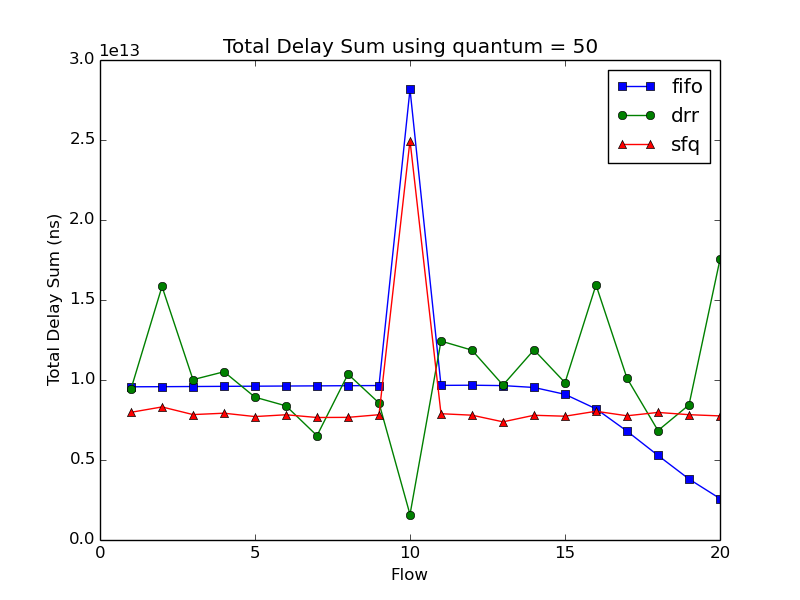
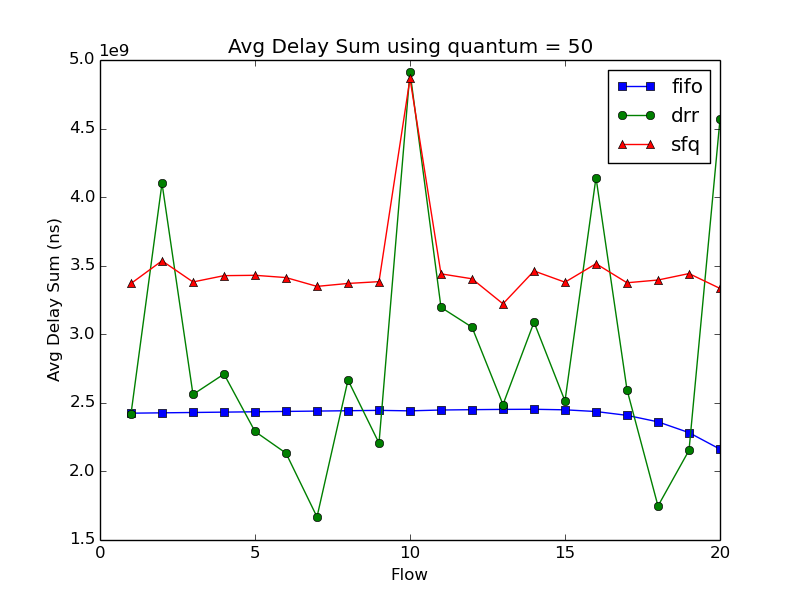
update delay to avg

diff --git a/scratch/plot_figures.py b/scratch/plot_figures.py
@@ -109,10 +109,11 @@ for file_name in files:
             if 'delaySum' in flow.attrib:
                 count += 1
                 delay_string = flow.attrib['delaySum']
+                num_packets = flow.attrib['rxPackets']
                 ns = delay_string.find("ns")
                 delay_string = delay_string[0: ns]
                 delay = float(delay_string)
-                dictionary[count] = delay
+                dictionary[count] = delay / float(num_packets)
 
     dictionary_data[file_name] = dictionary
 
@@ -132,8 +133,8 @@ plt.plot(fifo50delay.keys(), fifo50delay.values(), 'bs-', label='fifo')
 plt.plot(drr50delay.keys(), drr50delay.values(), 'go-', label='drr')
 plt.plot(sfq50delay.keys(), sfq50delay.values(), 'r^-', label='sfq')
 plt.legend(loc='upper right')
-plt.ylabel('Total Delay Sum (ns)')
+plt.ylabel('Avg Delay Sum (ns)')
 plt.xlabel('Flow')
-plt.title('Total Delay Sum using quantum = 50')
+plt.title('Avg Delay Sum using quantum = 50')
 plt.savefig(delayFileName)
 print('Saving ' + delayFileName)
